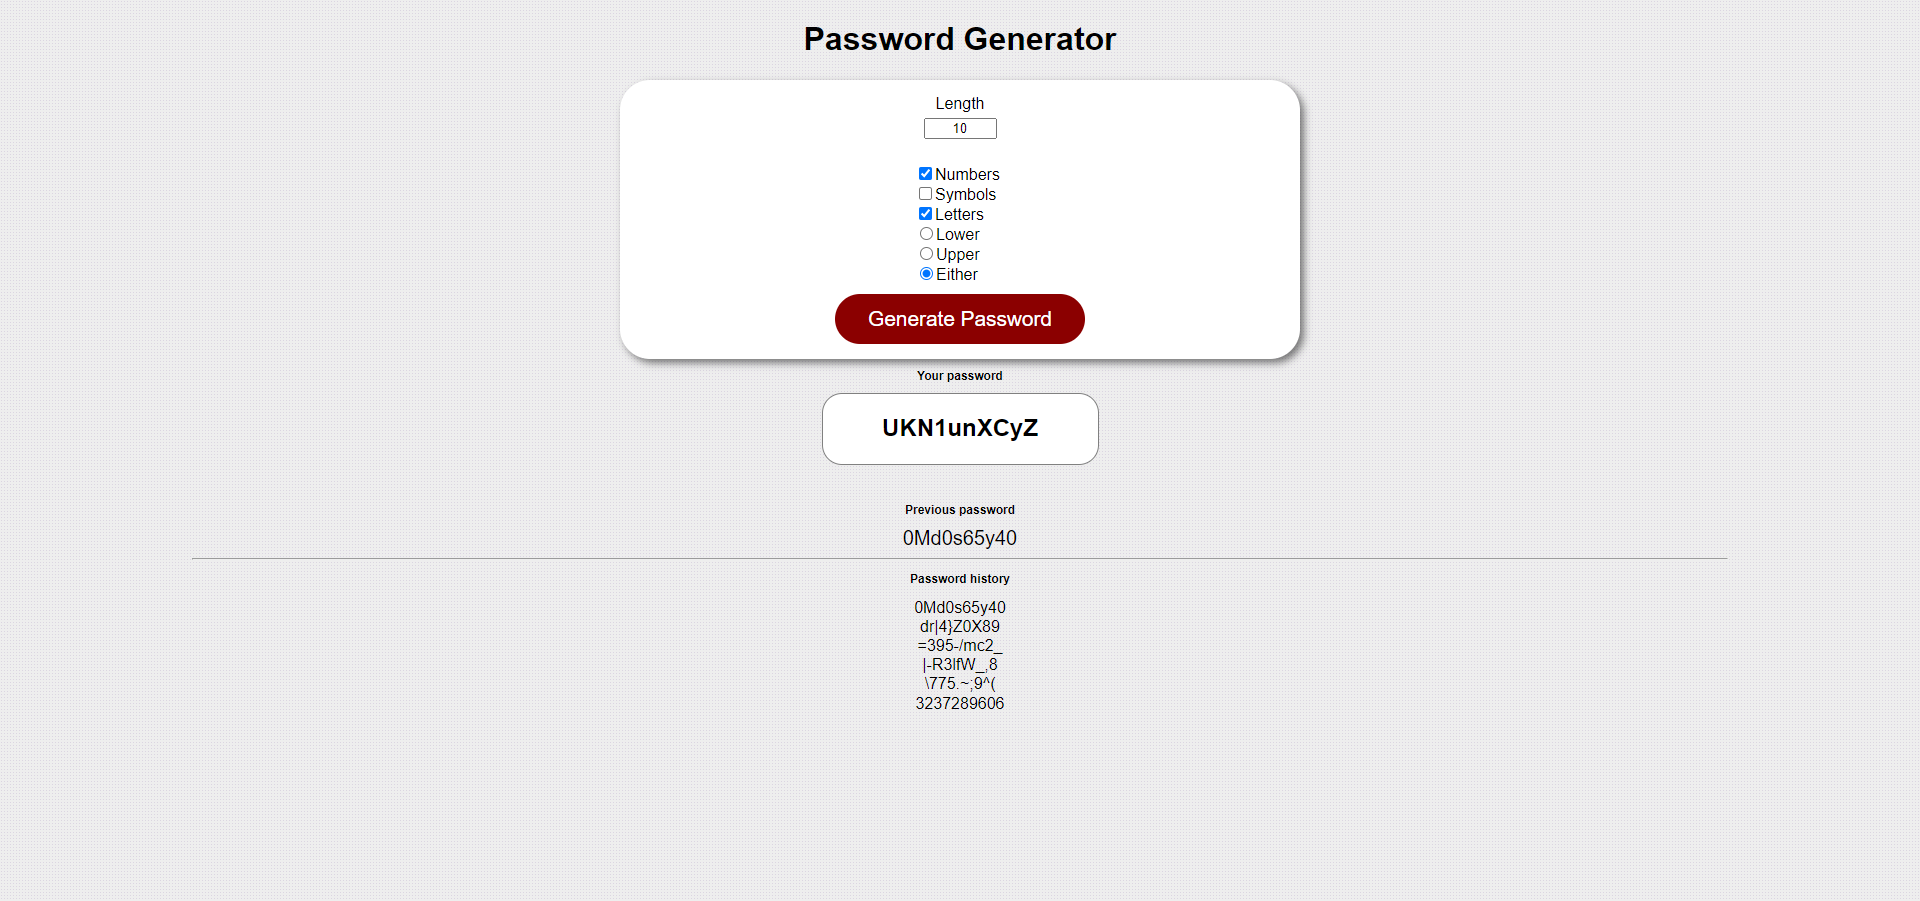
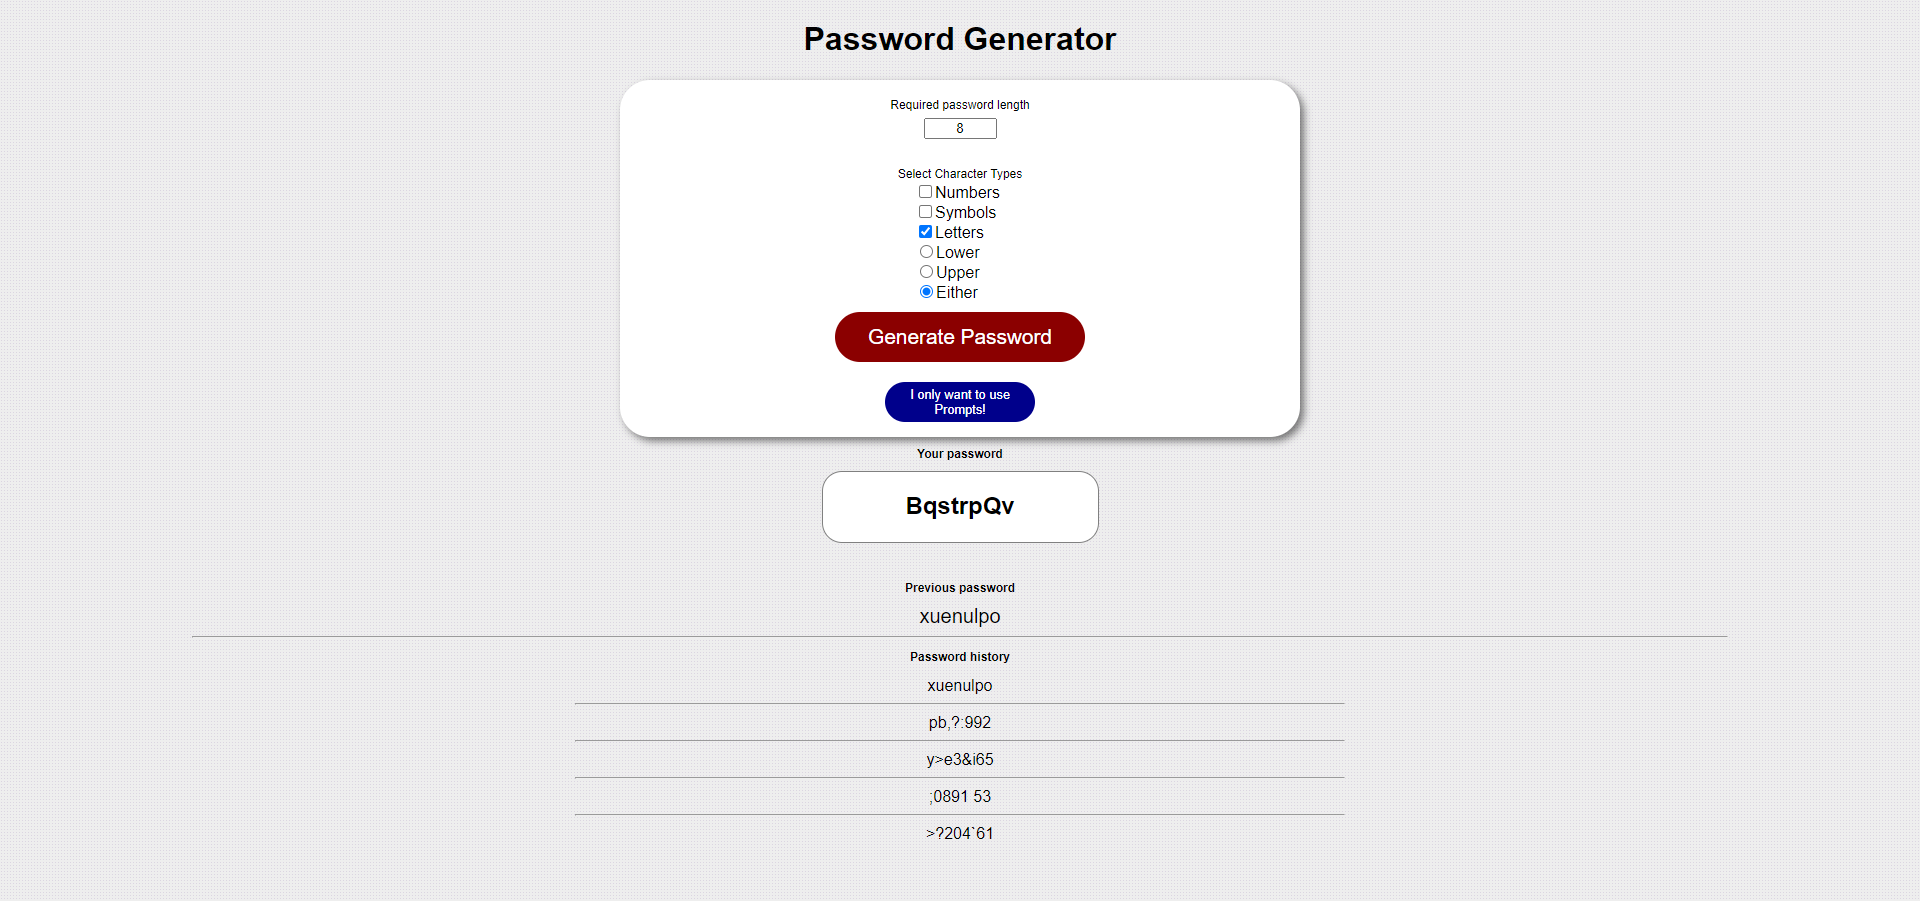
readme updated, wording changed in index on prompt button

Changed region(s): [[0.3125, 0.1865, 0.6875, 0.808], [0.4688, 0.8391, 0.5312, 0.9323], [0.4688, 0.0932, 0.5312, 0.1243]]

diff --git a/index.html b/index.html
@@ -13,7 +13,7 @@
 
 
 <form action="javascript:generate()">
-    <label for="length" class="directions">Required password length</label><br/><input type="number" id="length" required min="8" max="128"><br>
+    <label for="length" class="directions">Required password length</label><br/><input type="number" id="length" required min="3" max="128"><br>
     <label for="checkbox" class="directions" id="selectChar">Select Character Types</label><br/>
     <div class="checkArea">
         <input type="checkbox" id="number"><label for="number">Numbers</label><br>

diff --git a/README.md b/README.md
@@ -22,7 +22,7 @@ Provide a solution so that the user can set various criteria and be provided wit
 
 **ACTION**
 
-A full review of the code, resulting in:
+Writing of a solution to resolve the situation, including:
 * Layout
   * *Layout is responsive and functional on various screen sizes*
   * *Simple, yet attractive design*
@@ -32,6 +32,7 @@ A full review of the code, resulting in:
   * *Favicon designed and added*
   * *Thorough comments*
   * *Intuitive design with error handling and user feedback if mistakes made*
+  * *Different options available for the user to generate their requirements*
 * Javascript
   * *Error free performance*
   * *Multiple functions to separate aspects of code*
